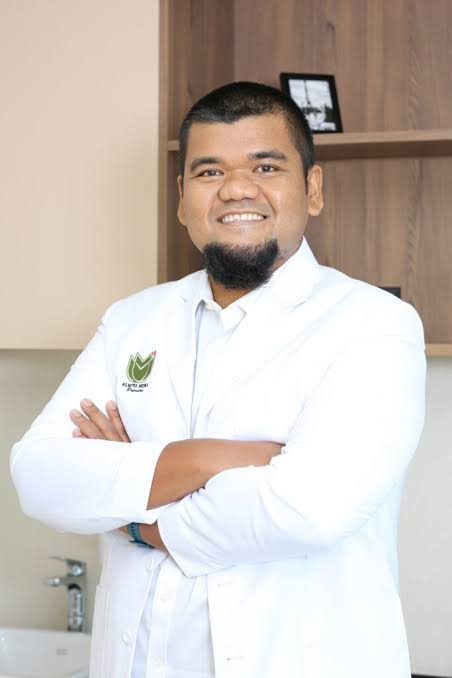
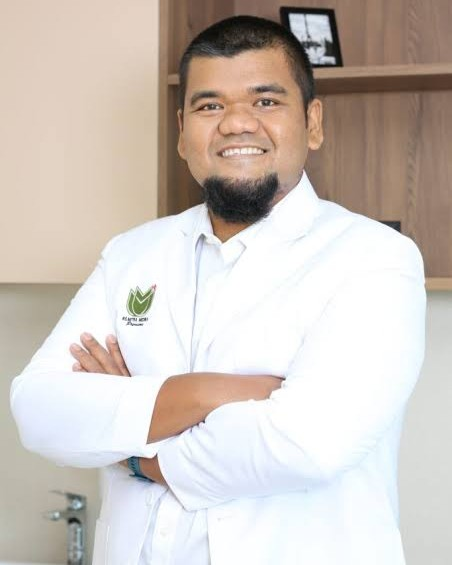
feat: update webinar speaker images with new photos
Add new speaker images for webinar2 from Vercel Blob storage.

diff --git a/lib/data/webinars.ts b/lib/data/webinars.ts
@@ -154,7 +154,7 @@ const webinar2: Webinar = {
       organizationShort: "Pain Specialist",
       topic:
         "Next-Generation Intervention Modalities: Advanced Radiofrequency, Cryoablation, Neurolytic Innovations, and Implantable Drug Delivery Systems",
-      image: "/images/dr-yuddi.jpeg",
+      image: "/images/dr.jpeg",
       color: "bg-blue-600",
     },
     {
@@ -165,7 +165,7 @@ const webinar2: Webinar = {
       organizationShort: "Pain Specialist",
       topic:
         "Optimization of Pharmacological Therapy with an Individualized Approach: Back-to-Basics Patterns in the Modern Era",
-      image: "/images/dr-tasrif.jpeg",
+      image: "/images/dr.jpeg",
       color: "bg-teal-600",
     },
   ],
